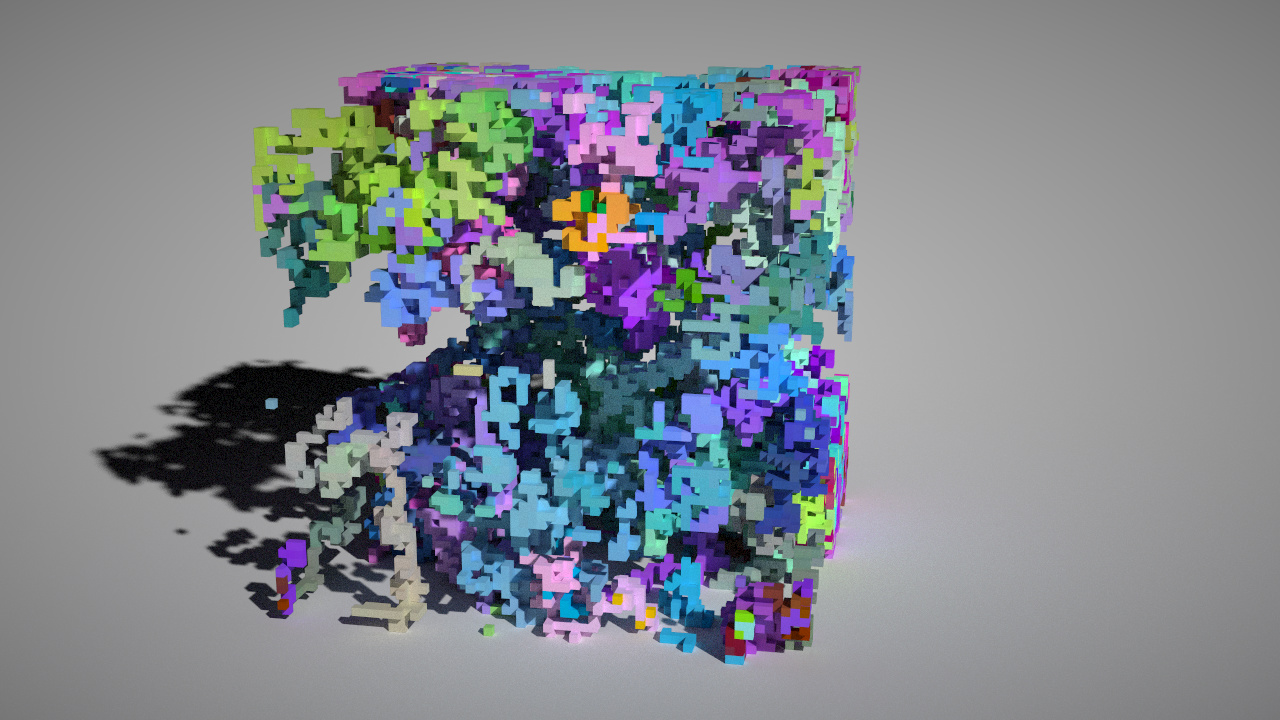
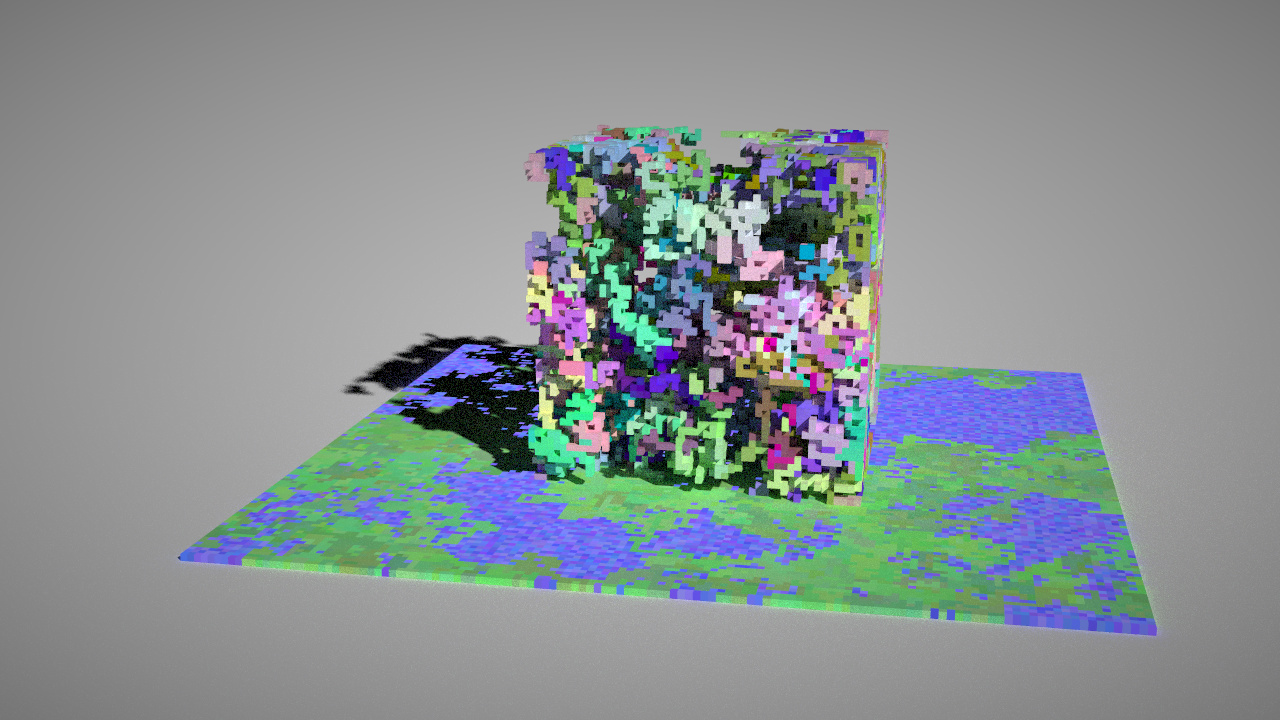
update scene 04

diff --git a/gallery/scene04.py b/gallery/scene04.py
@@ -1,4 +1,4 @@
-from scene import Scene, MAT_LAMBERTIAN
+from scene import Scene, MAT_LAMBERTIAN, MAT_LIGHT
 import taichi as ti
 from taichi.math import *
 
@@ -10,7 +10,7 @@ scene.set_directional_light((0.5, 0.5, 0.5),
 
 
 @ti.func
-def random_walk(xl, xu, yl, yu, zl, zu, rl, ru, gl, gu, bl, bu, num=1000):
+def random_walk(xl, xu, yl, yu, zl, zu, rl, ru, gl, gu, bl, bu, mat, num=1000):
     x = (xl + xu) // 2
     y = (yl + yu) // 2
     z = (zu + zu) // 2
@@ -47,12 +47,21 @@ def random_walk(xl, xu, yl, yu, zl, zu, rl, ru, gl, gu, bl, bu, num=1000):
             b = b - 1 if b - 1 >= bl else bu
         else:
             b = b + 1 if b + 1 <= bu else bl
-        scene.set_voxel(vec3(x, y, z), MAT_LAMBERTIAN, vec3(r, g, b) * 0.01)
+        scene.set_voxel(vec3(x, y, z), mat, vec3(r, g, b) * 0.01)
 
 
 @ ti.kernel
 def initialize_voxels():
-    random_walk(-30, 30, 0, 60, -30, 30, 0, 100, 0, 100, 0, 100, 50000)
+    random_walk(-64, 63, 0, 0, -64, 63, 20, 40, 60,
+                100, 20, 40, MAT_LAMBERTIAN, 100000)
+    random_walk(-25, 25, 1, 51, -25, 25, 0, 100, 0,
+                100, 0, 100, MAT_LAMBERTIAN, 50000)
+    for x in range(-64, 64):
+        for y in range(-64, 64):
+            _, color = scene.get_voxel(vec3(x, 0, y))
+            if color[1] < 0.6:
+                scene.set_voxel(vec3(x, 0, y), MAT_LIGHT, vec3(
+                    ti.random() * 0.2 + 0.1, ti.random() * 0.2 + 0.1, ti.random() * 0.2 + 0.8))
 
 
 initialize_voxels()
